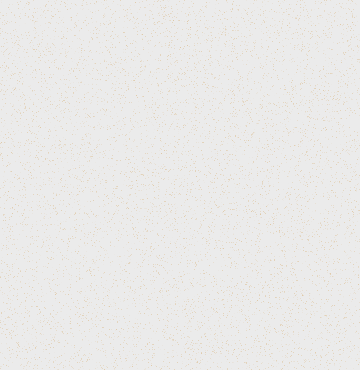
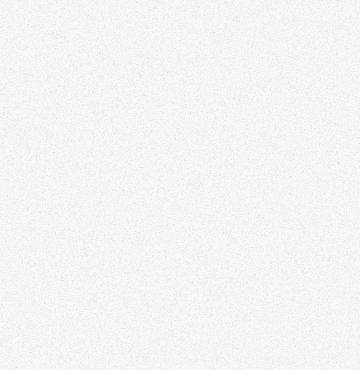
background color

diff --git a/src/components/professional/MainContent.jsx b/src/components/professional/MainContent.jsx
@@ -1,4 +1,4 @@
-import React from "react";
+import React, { useEffect } from "react";
 import styled from "styled-components";
 
 import useDarkMode from "../../hooks/useDarkMode";
@@ -15,8 +15,15 @@ import {
 } from "../../views/styling";
 
 export default function MainContent(props) {
-  const [darkMode, setDarkMode] = useDarkMode();
+  const [] = useDarkMode();
 
+  let menuHeight = 0
+
+  // useEffect(() => {
+  //   menuHeight = document.getElementById("menu").clientHeight;
+  // }, []);
+  // console.log(menuHeight);
+  
   function isExpanded(receivedArticle) {
     props.setContent(
       props.content.map(article => {
@@ -31,13 +38,14 @@ export default function MainContent(props) {
   }
 
   return (
-    <Container>
+    <Container style={{marginTop: menuHeight}} >
       {props.content.map((article, index) => (
-        <div className={
-          article.display
-            ? "article toggle darkmode selected"
-            : "article toggle darkmode"
-        }
+        <div
+          className={
+            article.display
+              ? "article toggle darkmode selected"
+              : "article toggle darkmode"
+          }
           // style={article.display ? selectedStyle : null}
           key={index}
           onClick={e => {
@@ -49,9 +57,7 @@ export default function MainContent(props) {
             <MenuArrow hidden={!article.display} />
           </div>
           <p>{article.introduction}</p>
-          <StyledDetails
-            style={article.display ? closedDetails : null}
-          >
+          <StyledDetails style={article.display ? closedDetails : null}>
             {article.contents.map((content, index) => (
               <p key={index}>{content}</p>
             ))}
@@ -63,31 +69,33 @@ export default function MainContent(props) {
 }
 
 const Container = styled.div`
+
   .article {
     width: 100%;
     padding: ${professionalInnerPad};
     cursor: pointer;
     transition: background-color ${transition};
-  
+
     @media (min-width: ${mediaBreak}) {
       padding-left: 20px;
       padding-right: 20px;
     }
-  
+
     h5 {
       text-align: left;
+      padding-bottom: 0.5rem;
     }
-  
+
     p {
-      padding: 0.7rem 0;
+      padding-bottom: 0.5rem;
     }
-  
+
     .title {
       top: 0;
       display: flex;
       justify-content: space-between;
     }
-  
+
     @media (pointer: fine) {
       &:hover {
         background-color: ${professionalButtonHov};
@@ -96,13 +104,13 @@ const Container = styled.div`
   }
 
   .article.selected {
-    background-color: ${professionalButton}
+    background-color: ${professionalButton};
   }
 
   .article.selected.darkmode {
-    background-color: ${professionalButtonDark}
+    background-color: ${professionalButtonDark};
   }
-`
+`;
 
 const StyledDetails = styled.div`
   max-height: 0px;
@@ -114,7 +122,7 @@ const closedDetails = {
   maxHeight: "1000px"
 };
 
-const selectedStyle = {
-  // borderRadius: borderRad,
-  backgroundColor: professionalButtonDark
-};
+// const selectedStyle = {
+//   // borderRadius: borderRad,
+//   backgroundColor: professionalButtonDark
+// };

diff --git a/src/components/landing/ProjectCard.jsx b/src/components/landing/ProjectCard.jsx
@@ -1,7 +1,7 @@
 import React from "react";
 import styled from "styled-components";
 
-import { borderRad, transition, buttonBlue, projectCardBack, projectCardBackDark } from "../../views/styling";
+import { borderRad, transition, buttonBlue, projectCardBack, projectCardBackDark, projectCardBorder } from "../../views/styling";
 import { projectsLink, projectsGitHub } from "../../data/projects";
 
 export default function ProjectCard(props) {
@@ -10,10 +10,12 @@ export default function ProjectCard(props) {
       <FlipCard>
         <div className="flip-card-inner">
           <div className="flip-card-front toggle darkmode">
-            <img
-              src={props.project.image}
-              alt={props.project.title}
-            />
+            <div className="imageDiv">
+              <img
+                src={props.project.image}
+                alt={props.project.title}
+              />
+            </div>
             <div className="buttons">
               {props.project.link === "" ? null : (
                 <a href={props.project.link}>{projectsLink}</a>
@@ -113,20 +115,30 @@ const FlipCard = styled.div`
     width: 100%;
     height: 100%;
     backface-visibility: hidden;
+    border: 1px solid ${projectCardBorder};
     border-radius: 15px;
-
+    
     display: flex;
     flex-direction: column;
     justify-content: space-between;
     padding: 20px 0;
     background-color: ${projectCardBack};
     align-items: center;
+    
+    .imageDiv {
+      width: 100%;
+      height: 100%;
+      display: flex;
+      justify-content: center;
+      align-items: center;
+      // border: 1px solid red;
+    }
   }
-
+  
   .darkmode {
     background: ${projectCardBackDark};
   }
-
+  
   .flip-card-front {
   }
 

diff --git a/src/views/styling.js b/src/views/styling.js
@@ -10,6 +10,8 @@ export const fontColourDarkMode = "floralwhite";
 // https://favicon.io/favicon-generator/
 // favicon font - Merriweather
 
+// https://www.cssmatic.com/noise-texture
+
 
 export const buttonOrange = "#ff8d1e";
 export const buttonBlue = "#1E90FF";
@@ -24,11 +26,12 @@ export const landingHeadFootOpacity = 1;
 
 export const projectsMaxWidth = "";  // app is narrow enough
 export const projectCardBack = "GhostWhite";
+export const projectCardBorder = "darkgrey";
 export const projectCardBackDark = "#202020";
 
 export const landingCaption = "GhostWhite";
 export const landingCaptionDark = "#202020";
-export const landingCaptionBorder = "lightgrey";
+export const landingCaptionBorder = "darkgrey";
 export const landingCaptionMaxWidth = "1000px";
 
 export const landingBoysBack = "#a9a9a9";
@@ -36,11 +39,11 @@ export const landingBoysButton = "#505050";
 export const landingBoysFont = "#dcdcdc";
 export const landingBoysMaxWidth = "1000px";
 
-export const professionalBack = "#eae2d6";
+export const professionalBack = "#F5F5F5";
 export const professionalBackDark = "#282828";
-export const professionalButton = "#d5c3aa";
+export const professionalButton = "#E8E8E8";
 export const professionalButtonDark = "#383838";
-export const professionalSelectedButton = "green";
+export const professionalSelectedButton = "#C8C8C8";
 export const professionalSelectedButtonDark = "#606060";
 export const professionalButtonHov = "#e1b80d";
 export const professionalInnerPad = "10px";

diff --git a/src/data/projects.js b/src/data/projects.js
@@ -4,6 +4,9 @@ import nasa from "../images/nasa.png";
 import darkmode from "../images/darkmode.png";
 import weather from "../images/weather.png";
 import movie from "../images/movie.png";
+import maze from "../images/maze2.png";
+import jamesPhoto from "../images/james.jpg";
+
 
 export const projectsNumber = 5;
 
@@ -13,6 +16,26 @@ export const projectsLink = "Visit";
 export const projectsGitHub = "github";
 
 export const projects = [
+  {
+    title: "Portfolio",
+    description: "Personal Website",
+    uses: "React, Axios, Redux",
+    comments:
+      "",
+    image: jamesPhoto,
+    link: "https://jamesgrantham.me/",
+    repo: ""
+  },
+  {
+    title: "RoboMaze",
+    description: "Lambda School Build Week",
+    uses: "Python, React, Axios, Redux",
+    comments:
+      "",
+    image: maze,
+    link: "https://mud-2-frontend-nihkors8y.now.sh/",
+    repo: ""
+  },
   {
     title: "Rick and Morty",
     description: "Lambda School Sprint Challenge",

diff --git a/src/views/ContactForm.jsx b/src/views/ContactForm.jsx
@@ -7,7 +7,7 @@ import { validationSchema } from "../helpers/validationSchema";
 // import 'react-toastify/dist/ReactToastify.css';
 import { axiosWithBase } from "../helpers/AxiosCustom";
 
-import { borderRad, transition } from "../views/styling";
+import { borderRad, transition, buttonBlue } from "../views/styling";
 import Footer from "../components/professional/Footer";
 
 const initalSignupForm = {
@@ -172,7 +172,7 @@ export const StyledForm = styled.form`
 
   button {
     margin: 20px 0 100px 0;
-    background-color: #ff8d1e;
+    background-color: ${buttonBlue};
     color: white;
     border-radius: ${borderRad};
     font-size: 1.2rem;

diff --git a/src/components/professional/Menu.jsx b/src/components/professional/Menu.jsx
@@ -72,7 +72,7 @@ export default function ContentButtons(props) {
   }
 
   return (
-    <Container className="toggle darkmode">
+    <Container id='menu' className="toggle darkmode">
       <h2>James Grantham</h2>
 
       <CollapsingMenu>
@@ -123,12 +123,8 @@ export default function ContentButtons(props) {
 
 const Container = styled.div`
   width: 100%;
-  // padding: ${professionalInnerPad};
   margin-bottom: 10px;
-
-  @media (min-width: ${mediaBreak}) {
-    // padding: 20px;
-  }
+  // position: fixed;
 
   h2 {
     font-weight: bold;

diff --git a/src/components/landing/headerStyling.js b/src/components/landing/headerStyling.js
@@ -21,7 +21,7 @@ const rotate = keyframes`
 // create a component that will rotate everything we pass in
 export const Rotate = styled.div`
   display: inline-block;
-  animation: ${rotate} 8s linear infinite;
+  animation: ${rotate} 4s linear infinite;
 `;
 export const Header = styled.div`
   z-index: 1000;
@@ -38,6 +38,7 @@ export const Header = styled.div`
   padding: 0 10px;
 
   .image {
+    position: relative;
     height: 25px;
     width: 25px;
 

diff --git a/src/data/introduction.js b/src/data/introduction.js
@@ -1,2 +1,2 @@
 export const welcomeMessage = `I'm James, a full stack web developer based in the UK`
-export const introduction = `I have nearly 20 years industry experience working with and managaging both local and remote teams in challanging environments. `
+export const introduction = `I have nearly 20 years industry experience working with and managaging both local and remote teams in challenging environments. `

diff --git a/src/App.js b/src/App.js
@@ -7,7 +7,7 @@ import Login from "./views/Login";
 import PhoneNumbers from "./views/PhoneNumbers";
 import ContactForm from "./views/ContactForm";
 import Projects from "./views/AllProjects";
-import back from "./images/background.png";
+import back from "./images/background2.png";
 import backDark from "./images/backDark.png";
 import { fontColour, fontColourDarkMode, appWidth } from "./views/styling";
 

diff --git a/src/components/reusable/SiteLinks.jsx b/src/components/reusable/SiteLinks.jsx
@@ -3,7 +3,7 @@ import styled from "styled-components";
 
 import github from "../../images/github.png";
 import linkedin from "../../images/linkedin.png";
-import mail from "../../images/mail-512.png";
+import mail from "../../images/mailNew.png";
 import { transition } from "../../views/styling";
 
 export default function SiteLinks() {
